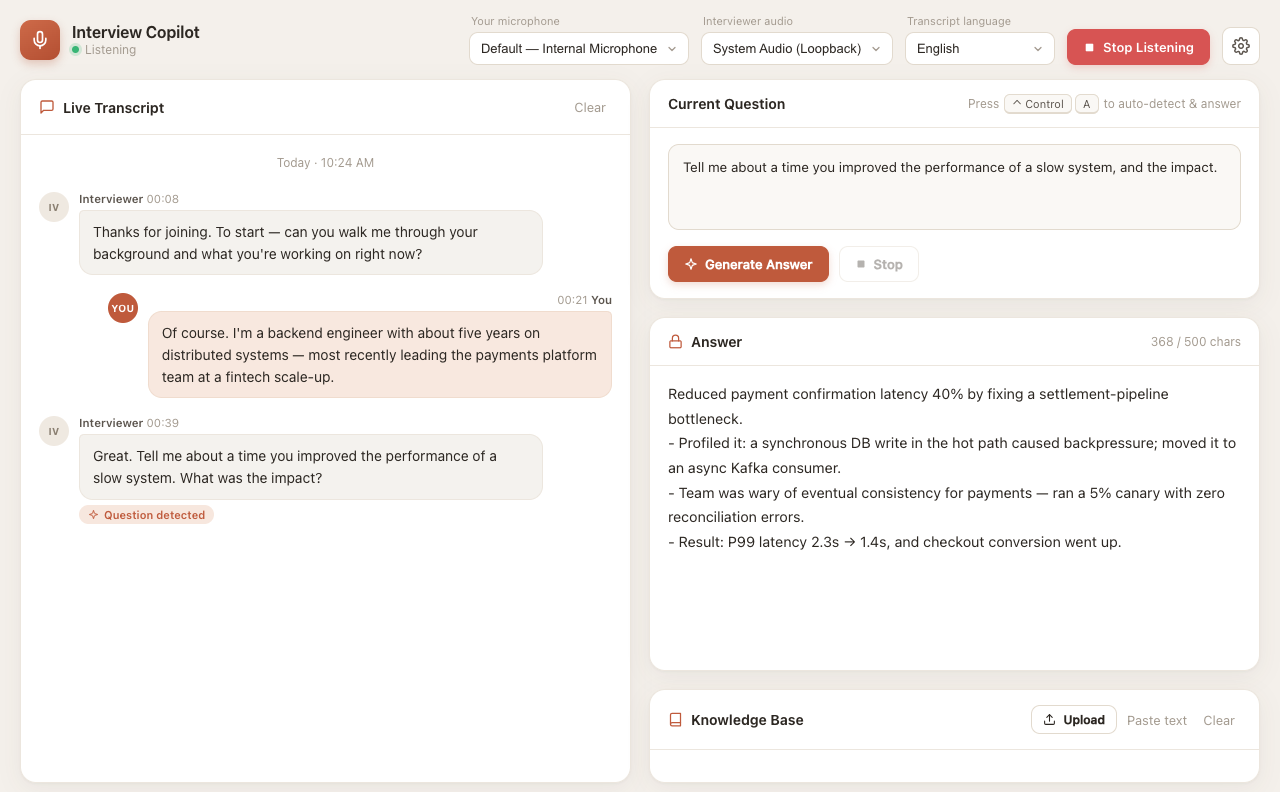
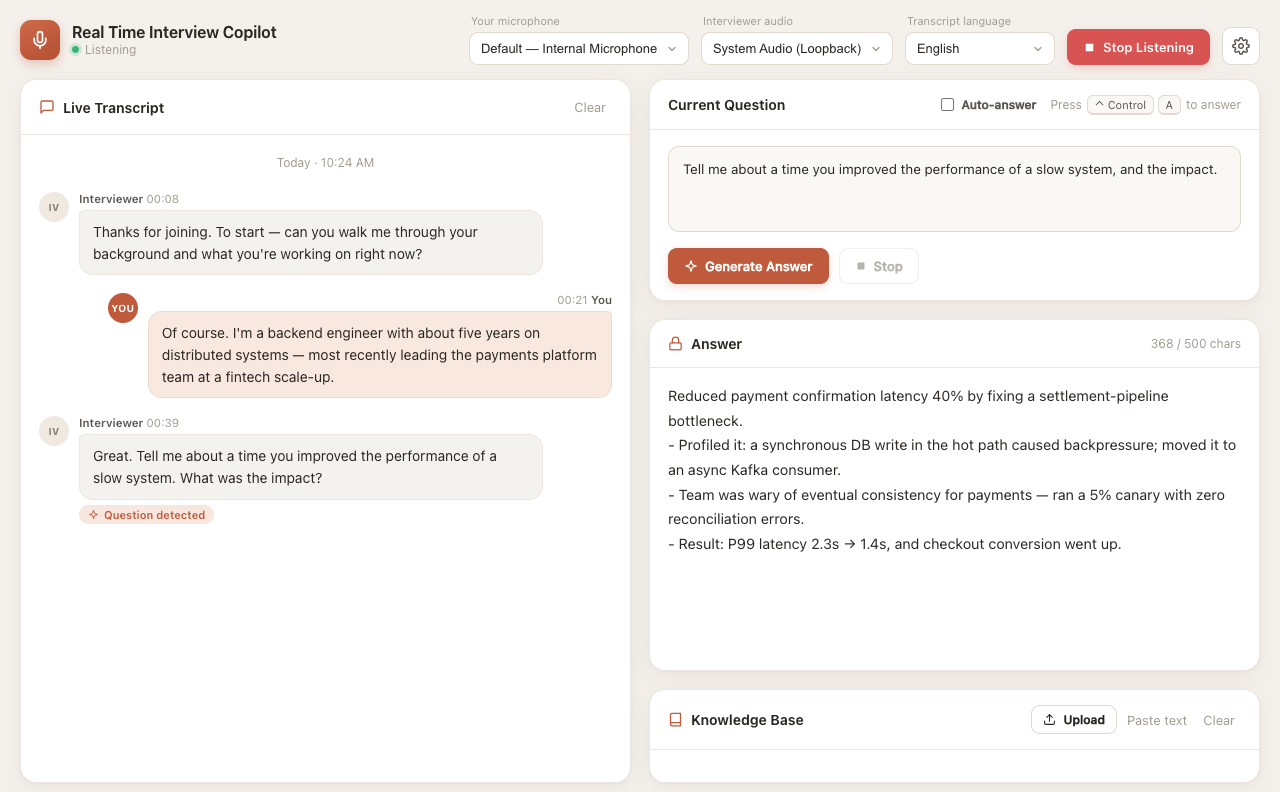
rename: display name → "Real Time Interview Copilot"
Update UI title, window title, README/LAUNCH/CONTRIBUTING, electron-builder
productName, packager/sign scripts, and macOS usage strings. Regenerate the
README screenshot + demo GIF with the new title. npm name, bundle id
(com.interview.copilot), repo slug, and the userData directory are unchanged,
so existing settings/keys/JD/Knowledge Base are preserved.

diff --git a/src/renderer/index.html b/src/renderer/index.html
@@ -8,7 +8,7 @@
       http-equiv="Content-Security-Policy"
       content="default-src 'self'; connect-src 'self' wss://api.deepgram.com https://api.deepgram.com; script-src 'self'; worker-src 'self' blob:; style-src 'self' 'unsafe-inline'; img-src 'self' data:; media-src 'self' blob:; base-uri 'none'; form-action 'none'"
     />
-    <title>Interview Copilot</title>
+    <title>Real Time Interview Copilot</title>
     <link rel="stylesheet" href="styles.css" />
   </head>
   <body>
@@ -31,7 +31,7 @@
           </svg>
         </div>
         <div class="brand-text">
-          <div class="brand-title">Interview Copilot</div>
+          <div class="brand-title">Real Time Interview Copilot</div>
           <div class="brand-status">
             <span class="dot" id="statusDot"></span><span id="statusText">Idle</span>
           </div>

diff --git a/src/main/main.js b/src/main/main.js
@@ -56,7 +56,7 @@ function createWindow() {
     minHeight: 640,
     show: !smoke,
     backgroundColor: '#0f1117',
-    title: 'Interview Copilot',
+    title: 'Real Time Interview Copilot',
     webPreferences: {
       preload: path.join(__dirname, 'preload.js'),
       contextIsolation: true,

diff --git a/tools/make-social.js b/tools/make-social.js
@@ -41,7 +41,7 @@ app.whenReady().then(async () => {
   </style></head><body><div class="wrap">
     <div class="left">
       <div class="brand"><span class="ic">${icon.replace('width="1024" height="1024"', 'width="84" height="84"')}</span>
-        <h1>Interview Copilot</h1></div>
+        <h1>Real Time Interview Copilot</h1></div>
       <p class="tag">Hear the interviewer's question and draft your answer — live, and entirely on your machine.</p>
       <div class="chips"><span class="chip">Deepgram STT</span><span class="chip">DeepSeek · Gemini · OpenAI · Ollama</span><span class="chip">Local-first</span><span class="chip">MIT</span></div>
       <div class="url">github.com/ericwang915/interview-copilot</div>

diff --git a/README.md b/README.md
@@ -1,4 +1,4 @@
-# Interview Copilot
+# Real Time Interview Copilot
 
 [![CI](https://github.com/ericwang915/interview-copilot/actions/workflows/ci.yml/badge.svg)](https://github.com/ericwang915/interview-copilot/actions/workflows/ci.yml)
 [![License: MIT](https://img.shields.io/badge/License-MIT-blue.svg)](LICENSE)
@@ -12,12 +12,12 @@
 
 A single-window Electron desktop app. It listens to a conversation, separates **you (microphone)** from the **interviewer (system audio)**, and on a hotkey detects the interviewer's current question and drafts a concise, first-person answer — using the last ~15 turns of dialogue plus any documents you upload as context.
 
-![Interview Copilot demo — speak, transcribe, press Ctrl+A, get an answer](assets/demo.gif)
+![Real Time Interview Copilot demo — speak, transcribe, press Ctrl+A, get an answer](assets/demo.gif)
 
 <details>
 <summary>Static screenshot</summary>
 
-![Interview Copilot — live transcript on the left, detected question and generated answer on the right](assets/screenshot.png)
+![Real Time Interview Copilot — live transcript on the left, detected question and generated answer on the right](assets/screenshot.png)
 
 </details>
 
@@ -94,7 +94,7 @@ The built app lives in `dist/`. For everyday use, launch the **packaged app** (d
 Prebuilt installers from the [Releases](https://github.com/ericwang915/interview-copilot/releases) page are **not notarized** (this is a free, open-source project without a paid Apple Developer certificate). So the first time you open it, Gatekeeper will warn that the developer can't be verified. To open it anyway:
 
 - **Right-click the app → Open**, then click **Open** in the dialog (only needed once), **or**
-- run `xattr -dr com.apple.quarantine "/Applications/Interview Copilot.app"` in Terminal.
+- run `xattr -dr com.apple.quarantine "/Applications/Real Time Interview Copilot.app"` in Terminal.
 
 After that it launches normally. (Building from source — `npm run package` — produces a locally-signed app with no such prompt.)
 
@@ -147,7 +147,7 @@ Key design notes:
 
 PRs welcome — see [CONTRIBUTING.md](CONTRIBUTING.md). Security issues: see [SECURITY.md](SECURITY.md). Sharing it? There's ready-to-post copy in [LAUNCH.md](LAUNCH.md).
 
-If Interview Copilot is useful to you, please **⭐ star the repo** — it genuinely helps others find it.
+If Real Time Interview Copilot is useful to you, please **⭐ star the repo** — it genuinely helps others find it.
 
 ## Star History
 

diff --git a/LAUNCH.md b/LAUNCH.md
@@ -1,6 +1,6 @@
 # Launch copy
 
-Ready-to-post drafts for sharing Interview Copilot. **You** post these from your
+Ready-to-post drafts for sharing Real Time Interview Copilot. **You** post these from your
 own accounts — they're framed honestly around interview **practice, mock
 interviews, and accessibility**, which is both the right framing and the one
 least likely to attract "this is cheating" pile-ons.
@@ -14,7 +14,7 @@ Repo: https://github.com/ericwang915/interview-copilot
 **Title**
 
 ```
-Show HN: Interview Copilot – local desktop app that transcribes and drafts interview answers
+Show HN: Real Time Interview Copilot – local desktop app that transcribes and drafts interview answers
 ```
 
 **Body**
@@ -97,7 +97,7 @@ Practice interviews with a local AI that hears and answers
 **Description**
 
 ```
-Interview Copilot is an open-source desktop app for interview practice. It
+Real Time Interview Copilot is an open-source desktop app for interview practice. It
 transcribes both sides of a mock interview in real time (Deepgram), detects the
 current question, and drafts a concise, first-person answer with the LLM of your
 choice — DeepSeek, Gemini, OpenAI, or fully local Ollama — grounded in the recent
@@ -120,7 +120,7 @@ responsible use. Happy to answer anything about the architecture!
 ## X / Twitter (thread)
 
 ```
-1/ Open-sourced Interview Copilot — a local desktop app for interview practice.
+1/ Open-sourced Real Time Interview Copilot — a local desktop app for interview practice.
 
 It hears the question (your mic + system audio, via Deepgram) and drafts your
 answer with the LLM you pick. Demo 👇  [attach demo.gif]

diff --git a/CHANGELOG.md b/CHANGELOG.md
@@ -5,6 +5,9 @@ All notable changes to this project are documented here. Format loosely follows
 
 ## [Unreleased]
 
+### Changed
+- Renamed the app (display name) to **Real Time Interview Copilot**. The npm package, bundle id (`com.interview.copilot`), repo slug, and local data directory are unchanged, so existing settings/keys/JD/Knowledge Base are preserved.
+
 ### Added
 - **App icon**: a native-style macOS icon (rust squircle + microphone), generated from `build/icon.svg` via `npm run icon` and applied to packaged builds and the dev dock.
 - **Auto-answer mode**: an optional toggle that detects when the interviewer finishes a question (pause debounce + question heuristic) and generates the answer automatically — no hotkey needed.

diff --git a/CONTRIBUTING.md b/CONTRIBUTING.md
@@ -1,6 +1,6 @@
 # Contributing
 
-Thanks for your interest in improving Interview Copilot!
+Thanks for your interest in improving Real Time Interview Copilot!
 
 ## Development setup
 